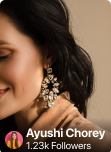
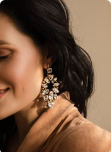
updated code

Changed region(s): [[0.027, 0.7895, 1.0, 1.0]]

diff --git a/app/(lifestyle)/index.jsx b/app/(lifestyle)/index.jsx
@@ -5,15 +5,23 @@ import { FontAwesome } from '@expo/vector-icons';
 import { useNavigation } from '@react-navigation/native';
 import { GStyle } from '../components/styles/Global';
 import { Colors } from '../components/styles/Colours';
+import Entypo from '@expo/vector-icons/Entypo';
+
 
 const LifestylePage = () => {
   const navigation = useNavigation();
   const [selectedButton, setSelectedButton] = useState(null);
   const [seeMore, setSeeMore] = useState({
-    Beauty: true,
+    Beauty: false,
     Gaming: false,
     Parenting: false,
     Animals: false,
+    Fitness: false,
+    Photography: false,
+    Accessories: false,
+    Clothing: false,
+    Jewelry: false,
+    Health: false
   });
 
   const navigateBack = () => {
@@ -27,6 +35,12 @@ const LifestylePage = () => {
       Gaming: false,
       Parenting: false,
       Animals: false,
+      Fitness: false,
+      Photography: false,
+      Accessories: false,
+      Clothing: false,
+      Jewelry: false,
+      Health: false
     });
   };
 
@@ -38,16 +52,19 @@ const LifestylePage = () => {
     }
   };
 
-  const renderSection = (title, images, imageStyle) => {
+  const renderSection = (title, images, imageStyle, initialImageCount, nameStyle = {}, followersStyle = {},imageTextStyle) => {
     const showAll = selectedButton === title || seeMore[title];
-    const imagesToShow = showAll ? images : images.slice(0, 2);
+    const imagesToShow = showAll ? images : images.slice(0, initialImageCount);
 
     return (
       <View style={GStyle.sectionContainer} key={title}>
         <View style={GStyle.sectionHeader}>
           <Text style={GStyle.sectionTitle}>{title}</Text>
           <TouchableOpacity onPress={() => setSeeMore(prev => ({ ...prev, [title]: !prev[title] }))}>
-            <Text style={GStyle.sectionSeeMore}>{seeMore[title] ? 'See Less' : 'See More'}</Text>
+            <Text style={GStyle.sectionSeeMore}>{seeMore[title] ? 'See Less' : 'See More'}
+            <Entypo name="chevron-small-down"  />
+            </Text>
+            
           </TouchableOpacity>
         </View>
         <View style={GStyle.imageContainer}>
@@ -60,10 +77,11 @@ const LifestylePage = () => {
               >
                 <Image source={image.uri} style={styles.image} />
                 <View style={GStyle.imageFooter}>
-                  <Image source={{ uri: image.profileUri }} style={GStyle.profileImage} />
-                  <View>
-                    <Text style={GStyle.profileName}>{image.name}</Text>
-                    <Text style={GStyle.profileFollowers}>{image.followers}</Text>
+                
+                  <Image source={image.profileUri} style={GStyle.profileImage} />
+                  <View style={imageTextStyle}>
+                    <Text style={[GStyle.profileName, nameStyle]}>{image.name}</Text>
+                    <Text style={[GStyle.profileFollowers, followersStyle]}>{image.followers}</Text>
                   </View>
                 </View>
               </TouchableOpacity>
@@ -91,17 +109,19 @@ const LifestylePage = () => {
         { uri: require('../assets/images/lifestyle/beauty/beauty10.png'), profileUri: 'https://example.com/profile6.jpg', name: '', followers: '60+M' },
         { uri: require('../assets/images/lifestyle/beauty/beauty11.png'), profileUri: 'https://example.com/profile6.jpg', name: '', followers: '60+M' },
       ],
-      GStyle.squareImage
+      GStyle.squareImage,
+      2
     ),
     Gaming: renderSection(
       'Gaming Influencer',
       [
-        { uri: require('../assets/images/lifestyle/gaming1.png'), profileUri: 'https://example.com/profile4.jpg', name: 'Brand Name', followers: '' },
-        { uri: require('../assets/images/lifestyle/gaming2.png'), profileUri: 'https://example.com/profile5.jpg', name: 'Brand Name', followers: '50+M' },
-        { uri: require('../assets/images/lifestyle/gaming3.png'), profileUri: 'https://example.com/profile6.jpg', name: 'Brand Name', followers: '60+M' },
-        { uri: require('../assets/images/lifestyle/gaming3.png'), profileUri: 'https://example.com/profile6.jpg', name: 'Brand Name', followers: '60+M' },
+        { uri: require('../assets/images/lifestyle/gaming1.png'), profileUri: require('../assets/images/profile.png'), name: 'Brand Name', followers: '' },
+        { uri: require('../assets/images/lifestyle/gaming2.png'), profileUri: require('../assets/images/profile.png'), name: 'Brand Name', followers: '50+M' },
+        { uri: require('../assets/images/lifestyle/gaming3.png'), profileUri: require('../assets/images/profile.png'), name: 'Brand Name', followers: '60+M' },
+        { uri: require('../assets/images/lifestyle/gaming3.png'), profileUri: require('../assets/images/profile.png'), name: 'Brand Name', followers: '60+M' },
       ],
-      GStyle.squareImage
+      GStyle.squareImage,
+      3
     ),
     Parenting: renderSection(
       'Parenting Influencer',
@@ -110,17 +130,91 @@ const LifestylePage = () => {
         { uri: require('../assets/images/lifestyle/parenting2.png'), profileUri: 'https://example.com/profile5.jpg', name: 'Brand Name', followers: '50+M' },
         { uri: require('../assets/images/lifestyle/parenting1.png'), profileUri: 'https://example.com/profile4.jpg', name: 'Brand Name', followers: '' },
       ],
-      GStyle.squareImage
+      GStyle.squareImage,
+      2
     ),
     Animals: renderSection(
       'Animal Related Influencer',
       [
+        { uri: require('../assets/images/lifestyle/animal1.png'), profileUri: 'https://example.com/profile4.jpg', name: 'Brand Name', followers: '' },
+        { uri: require('../assets/images/lifestyle/animal2.png'), profileUri: 'https://example.com/profile5.jpg', name: 'Brand Name', followers: '50+M' },
+        { uri: require('../assets/images/lifestyle/animal3.png'), profileUri: 'https://example.com/profile6.jpg', name: 'Brand Name', followers: '60+M' },
+      ],
+      GStyle.squareImage,
+      3,
+      styles.animalNameStyle,
+      styles.animalFollowersStyle,
+      styles.animalImageTextStyle
+    ),
+
+
+    Fitness: renderSection(
+      'Fitness',
+      [
+        { uri: require('../assets/images/lifestyle/fitness1.png'), profileUri: 'https://example.com/profile4.jpg', name: 'Brand Name', followers: '' },
+        { uri: require('../assets/images/lifestyle/fitness2.png'), profileUri: 'https://example.com/profile5.jpg', name: 'Brand Name', followers: '50+M' },
+
+      ],
+      GStyle.squareImage,
+      2
+    ),
+
+    Photography: renderSection(
+      'Photography Influencer',
+      [
         { uri: require('../assets/images/lifestyle/photography1.png'), profileUri: 'https://example.com/profile4.jpg', name: 'Brand Name', followers: '' },
         { uri: require('../assets/images/lifestyle/photography2.png'), profileUri: 'https://example.com/profile5.jpg', name: 'Brand Name', followers: '50+M' },
-        { uri: require('../assets/images/lifestyle/photography3.png'), profileUri: 'https://example.com/profile6.jpg', name: 'Brand Name', followers: '60+M' },
+        { uri: require('../assets/images/lifestyle/photography3.png'), profileUri: 'https://example.com/profile5.jpg', name: 'Brand Name', followers: '50+M' },
       ],
-      GStyle.squareImage
+      GStyle.squareImage,
+      3
     ),
+
+    Accessories: renderSection(
+      'Accessories',
+      [
+        { uri: require('../assets/images/lifestyle/accessories1.png'), name: 'Accessories', followers: '36k Followers' },
+        { uri: require('../assets/images/lifestyle/accessories2.png'), name: 'Accessories', followers: '36k Followers' },
+        { uri: require('../assets/images/lifestyle/accessories3.png'), name: 'Accessories', followers: '36k Followers' },
+      ],
+      GStyle.squareImage,
+      2,
+      styles.accessoriesNameStyle,
+      styles.accessoriesFollowersStyle
+    ),
+
+    Clothing: renderSection(
+      'Clothing Influencer',
+      [
+        { uri: require('../assets/images/lifestyle/clothing1.png'), profileUri: 'https://example.com/profile4.jpg', name: 'Brand Name', followers: '' },
+        { uri: require('../assets/images/lifestyle/clothing1.png'), profileUri: 'https://example.com/profile5.jpg', name: 'Brand Name', followers: '50+M' },
+        { uri: require('../assets/images/lifestyle/clothing1.png'), profileUri: 'https://example.com/profile5.jpg', name: 'Brand Name', followers: '50+M' },
+      ],
+      GStyle.squareImage,
+      3
+    ),
+
+    Jewelry: renderSection(
+      'Jewelry Influencer',
+      [
+        { uri: require('../assets/images/Jewelry1.png'), profileUri: 'https://example.com/profile4.jpg', name: 'Brand Name', followers: '' },
+        { uri: require('../assets/images/Jewelry2.png'), profileUri: 'https://example.com/profile5.jpg', name: 'Brand Name', followers: '50+M' },
+        { uri: require('../assets/images/Jewelry3.png'), profileUri: 'https://example.com/profile5.jpg', name: 'Brand Name', followers: '50+M' },
+      ],
+      GStyle.squareImage,
+      3
+    ),
+
+    Health: renderSection(
+      'Healthy Life With Influencer ',
+      [
+        { uri: require('../assets/images/health1.png'), profileUri: 'https://example.com/profile4.jpg', name: 'Brand Name', followers: '' },
+        { uri: require('../assets/images/health2.png'), profileUri: 'https://example.com/profile5.jpg', name: 'Brand Name', followers: '50+M' },
+      ],
+      GStyle.squareImage,
+      2
+    ),
+
   };
 
   return (
@@ -208,9 +302,9 @@ const styles = StyleSheet.create({
     marginLeft: 5,
   },
   image: {
-    width: '100%',
-    height: 150,
-    resizeMode: 'cover',
+    marginLeft: 8,
+    // flex: 1,
+    // resizeMode: 'cover',
   },
   flexRow: {
     flexDirection: 'row',
@@ -219,8 +313,7 @@ const styles = StyleSheet.create({
     flexWrap: 'wrap',
   },
   imageWrapper: {
-    flexBasis: '48%', 
-    marginBottom: 10,
+
   },
   selectedButton: {
     backgroundColor: Colors.white,
@@ -236,6 +329,31 @@ const styles = StyleSheet.create({
   unselectedButtonText: {
     color: Colors.white,
   },
+  accessoriesNameStyle: {
+    color: Colors.white,
+    fontSize: 12,
+    fontWeight: 'bold',
+    marginBottom: 0
+  },
+  accessoriesFollowersStyle: {
+    color: Colors.white,
+    fontSize: 7,
+    marginBottom: 20,
+    paddingTop: 0,
+    marginTop: 0
+  },
+  animalNameStyle:{
+// backgroundColor:Colors.primary
+  },
+
+  animalFollowersStyle:{
+
+  },
+
+  animalImageTextStyle:{
+backgroundColor:'red',
+
+  }
 });
 
 export default LifestylePage;

diff --git a/app/components/styles/Global.jsx b/app/components/styles/Global.jsx
@@ -54,9 +54,10 @@ sectionContainer: {
   
 },
 squareImage: {
-  width: 100, // Adjust the width as needed
-  height: 100, // Same as width to keep it square
-  borderRadius: 8, // Optional: Adjust the border radius if you want rounded corners
+  // width: 100, 
+  // height: 100, 
+  // borderRadius: 8, 
+  
 },
 
 // Header of each section containing the title and see more button
@@ -112,7 +113,8 @@ profileImage: {
   width: 30,
   height: 30,
   borderRadius: 15,
-  marginRight: 10,
+  // marginRight: 10,
+  marginLeft:8 
 },
 
 // // Profile name text style
